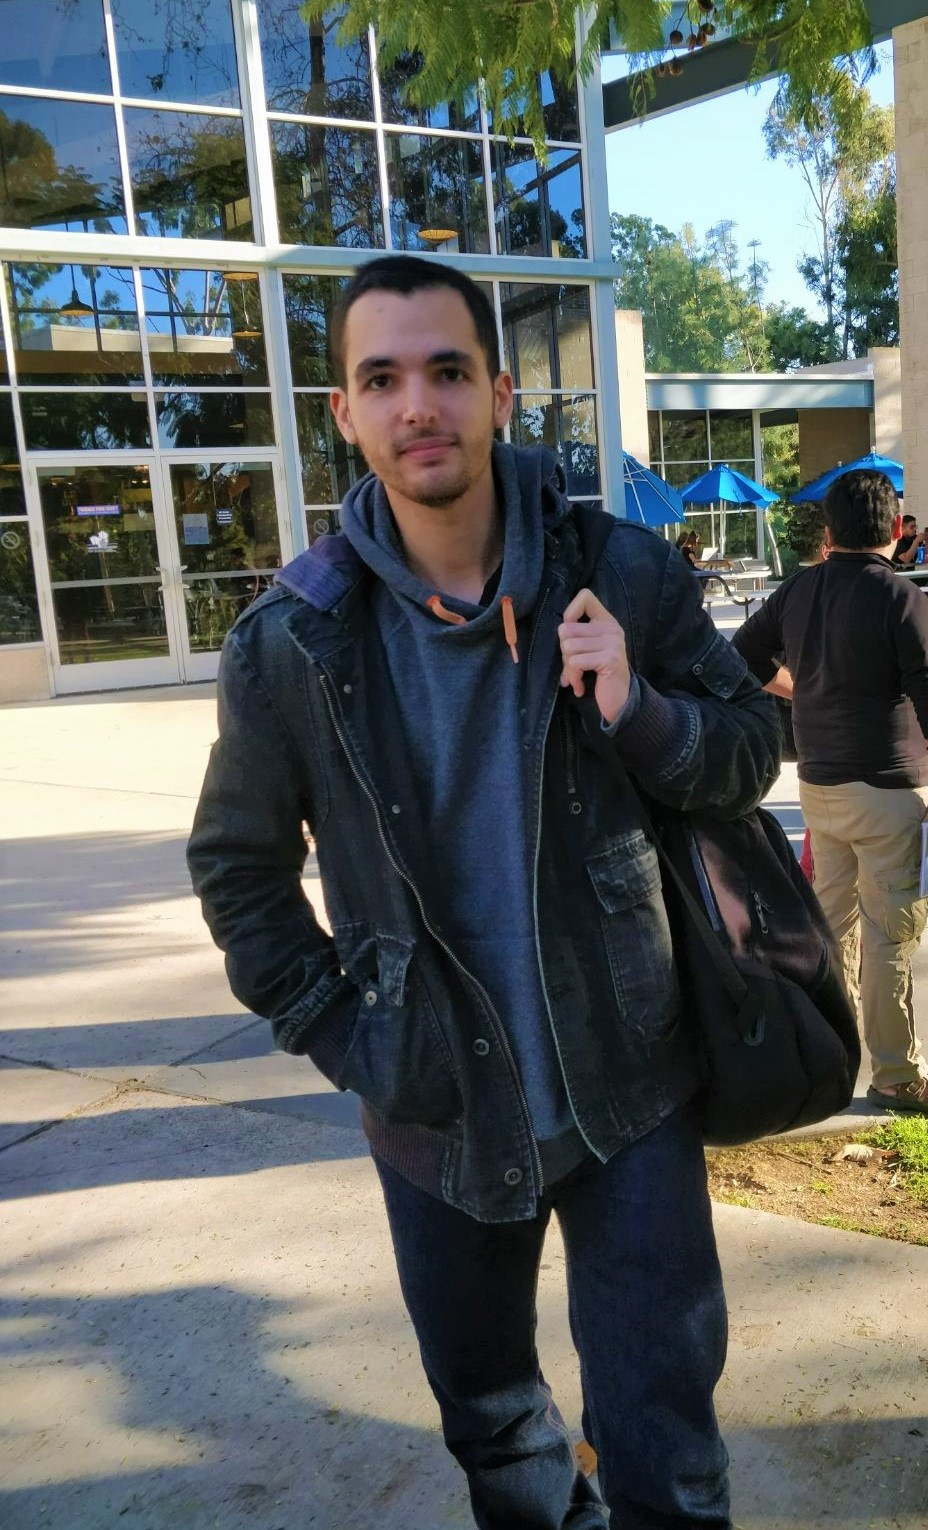
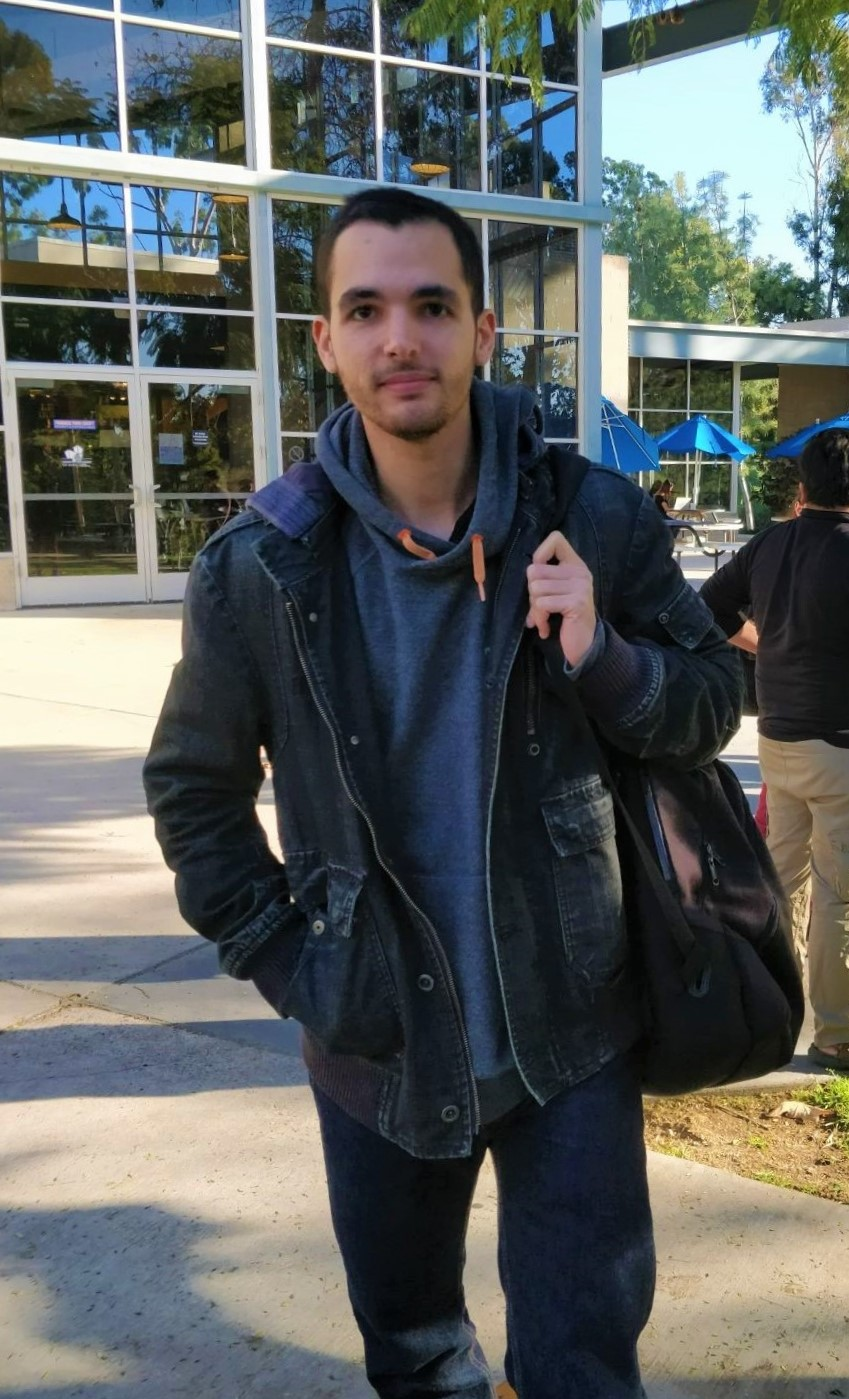
fixed slanted profile pic

diff --git a/index.html b/index.html
@@ -78,8 +78,7 @@
   </header>
 
   <aside id="pic">
-    <img src="img/nil.jpg" title="Me slanted to the right for no good reason." alt="this should be a picture of me"
-      height="574px" width="378px">
+    <img id="profilepic" src="img/nil.jpg" alt="profile pic">
   </aside>
 
   <main>

diff --git a/css/style.css b/css/style.css
@@ -167,6 +167,10 @@ footer p {
   margin-left: auto;
   margin-right: auto;
 }
+#profilepic {
+  height: 574px;
+  width: 378px;
+}
 
 header,
 footer {
